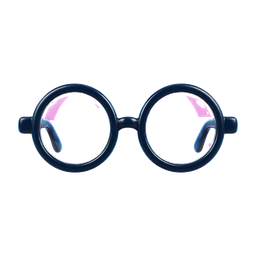
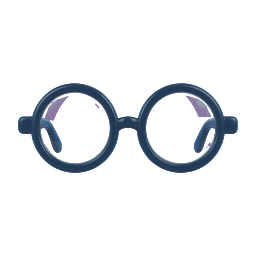
Anteojos Nv2 fuerte: refuerzo local ropa-02 (marco acero navy, opacidad x1.7, misma forma y posición) + BUILD v578

Changed region(s): [[0.0625, 0.3125, 0.9375, 0.6875]]

diff --git a/test-loterespirofoto.js b/test-loterespirofoto.js
@@ -51,7 +51,7 @@ ok(app.includes('class="apv-caption"'), 'caption del detalle intacto');
 ok(app.includes('homeTileHTML'), 'feed: homeTileHTML presente (app.js idéntico, sin cambios)');
 
 // ---------- Censo + versiones (base v559) ----------
-ok(srv.includes("const BUILD_ID = '20261101-v577'"), 'BUILD v576 en server.js (pin rotado con causa: liberación v577)');
+ok(srv.includes("const BUILD_ID = '20261101-v578'"), 'BUILD v577 en server.js (pin rotado con causa: liberación v578 anteojos-nv2-fuerte)');
 ok(idx.includes('app.js?v=388') && idx.includes('styles.css?v=20261102'), 'index ES: ?v= 387 / 20261102 (pin rotado con causa: liberación v577)');
 ok(cnt(srv, 'catsMatch') === 3, 'censo server: catsMatch 3');
 ok(cnt(srv, 'week-redo') === 16, 'censo server: week-redo 16');

diff --git a/test-lotedockmas.js b/test-lotedockmas.js
@@ -137,7 +137,7 @@ t('M78: Close llamado por backdrop y x', (sheet.match(/pzDockMasClose\(\)/g) || 
 t('M78: Foto y Video llamados por las filas (CHATBAR-MAS)', sheet.includes('pzDockMasFoto()') && sheet.includes('pzDockMasVideo()'));
 
 // ---------- 11. versiones + censo (post-push: v574 (pines rotados con causa)) ----------
-t('BUILD v573 pre-push', srv.includes("const BUILD_ID = '20261101-v577'"));
+t('BUILD v577', srv.includes("const BUILD_ID = '20261101-v578'")); // pin rotado con causa: liberación v578 anteojos-nv2-fuerte (solo BUILD cambia)
 t('index: app.js?v=388', idx.includes('app.js?v=388'));
 t('index: styles?v=20261102', idx.includes('styles.css?v=20261102'));
 t('en/index: styles?v=20261102', idxEn.includes('styles.css?v=20261102'));

diff --git a/test-lotechatbarmas.js b/test-lotechatbarmas.js
@@ -135,7 +135,7 @@ t('M78: Foto y Video llamados por las filas', sheet.includes('pzDockMasFoto()') 
 t('M78: Voz YA NO es llamada por ningún menú', !pzDockMasHTML().includes('pzDockMasVoz()') && cnt(app, 'pzDockMasVoz()') === 0);
 
 // ---------- 9. versiones + censo (base v575, sin push: pines intactos) ----------
-t('BUILD v575', srv.includes("const BUILD_ID = '20261101-v577'"));
+t('BUILD v577', srv.includes("const BUILD_ID = '20261101-v578'")); // pin rotado con causa: liberación v578 anteojos-nv2-fuerte (solo BUILD cambia)
 t('index: app.js?v=388', idx.includes('app.js?v=388'));
 t('index: styles?v=20261102', idx.includes('styles.css?v=20261102'));
 t('en/index: styles?v=20261102', idxEn.includes('styles.css?v=20261102'));

diff --git a/server.js b/server.js
@@ -26913,7 +26913,7 @@ function logGenError(where, err) {
 //   https://postycommunitymanager.com/api/version  →  {"build":"..."}.
 // Si después de subir muestra un BUILD_ID viejo, algún archivo se subió
 // duplicado (ej. "server 2.js" en vez de reemplazar "server.js").
-const BUILD_ID = '20261101-v577';
+const BUILD_ID = '20261101-v578';
 app.get('/api/health', (req, res) => res.json({ ok: true, app: 'posta', demoDefault: true }));
 app.get('/api/qa-audit', (req, res) => {
   try {
